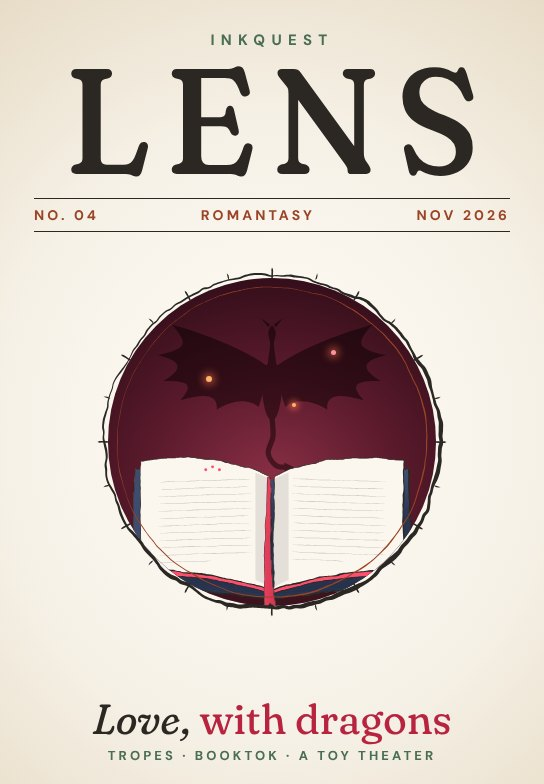
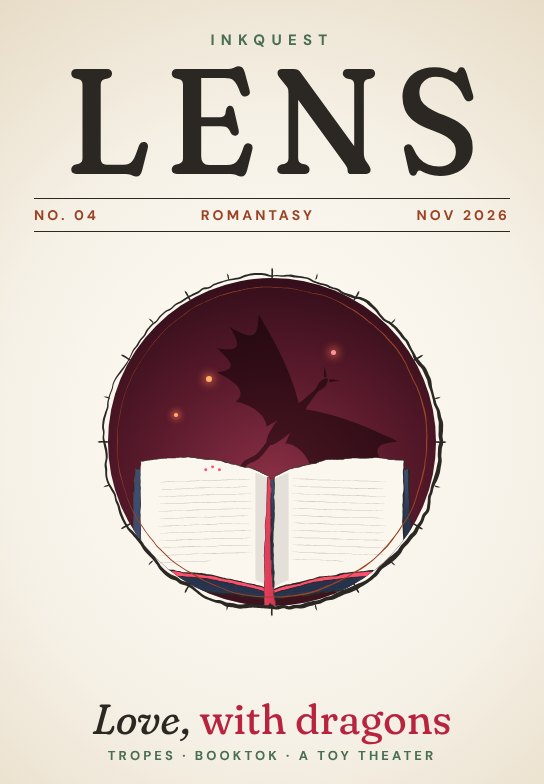
LENS No. 04: new cover frame (dragon on the diagonal)
Claude-Session: https://claude.ai/code/session_01DPTRyHWu8Jcacra3LsWqzT

Changed region(s): [[0.3125, 0.398, 0.7188, 0.6122], [0.3125, 0.5204, 0.3438, 0.551]]

diff --git a/issue-04/index.html b/issue-04/index.html
@@ -332,7 +332,7 @@ body::before{content:"";position:fixed;inset:0 0 auto;height:env(safe-area-inset
 /* cover: dark velvet in the lens, embers rising, a dragon's shadow passing over the book */
 .lens .glass.velvet{background:radial-gradient(80% 70% at 50% 62%,#8a2f45 0,#5a1a2c 48%,#2a0b16 100%)}
 .lens .glass.velvet::after{content:"";position:absolute;inset:0;background:repeating-linear-gradient(100deg,rgba(255,255,255,.035) 0 2px,transparent 2px 9px);pointer-events:none}
-.flyby{mix-blend-mode:multiply;opacity:.55;animation:flyby 10s linear infinite}
+.flyby{mix-blend-mode:multiply;opacity:.55;translate:5.1% 20%;rotate:42.4deg;scale:.938;animation:flyby 10s linear infinite}
 /* up to the right, bank, then away over the top left: 25 evenly spaced points on one Bézier curve, nose along the path */
 @keyframes flyby{0%{translate:-40.0% 60.0%;rotate:72.0deg;scale:0.850;opacity:0.000}4.17%{translate:-31.6% 55.4%;rotate:68.9deg;scale:0.862;opacity:0.229}8.33%{translate:-23.8% 50.4%;rotate:65.5deg;scale:0.875;opacity:0.458}12.5%{translate:-16.6% 44.9%;rotate:61.8deg;scale:0.887;opacity:0.550}16.67%{translate:-10.2% 39.1%;rotate:57.7deg;scale:0.900;opacity:0.550}20.83%{translate:-4.4% 33.0%;rotate:53.2deg;scale:0.912;opacity:0.550}25%{translate:0.7% 26.6%;rotate:48.1deg;scale:0.925;opacity:0.550}29.17%{translate:5.1% 20.0%;rotate:42.4deg;scale:0.938;opacity:0.550}33.33%{translate:8.7% 13.1%;rotate:35.9deg;scale:0.950;opacity:0.550}37.5%{translate:11.6% 6.1%;rotate:28.5deg;scale:0.962;opacity:0.550}41.67%{translate:13.7% -1.0%;rotate:20.4deg;scale:0.975;opacity:0.550}45.83%{translate:15.1% -8.3%;rotate:11.4deg;scale:0.987;opacity:0.550}50%{translate:15.6% -15.6%;rotate:1.9deg;scale:1.000;opacity:0.550}54.17%{translate:15.4% -23.0%;rotate:-7.8deg;scale:1.012;opacity:0.550}58.33%{translate:14.3% -30.3%;rotate:-17.4deg;scale:1.025;opacity:0.550}62.5%{translate:12.4% -37.6%;rotate:-26.3deg;scale:1.038;opacity:0.550}66.67%{translate:9.6% -44.8%;rotate:-34.5deg;scale:1.050;opacity:0.550}70.83%{translate:6.0% -51.9%;rotate:-41.8deg;scale:1.062;opacity:0.550}75%{translate:1.5% -58.8%;rotate:-48.2deg;scale:1.075;opacity:0.550}79.17%{translate:-3.9% -65.6%;rotate:-53.7deg;scale:1.087;opacity:0.550}83.33%{translate:-10.3% -72.1%;rotate:-58.6deg;scale:1.100;opacity:0.550}87.5%{translate:-17.5% -78.3%;rotate:-62.9deg;scale:1.113;opacity:0.458}91.67%{translate:-25.7% -84.2%;rotate:-66.7deg;scale:1.125;opacity:0.306}95.83%{translate:-34.9% -89.8%;rotate:-70.0deg;scale:1.137;opacity:0.153}100%{translate:-45.0% -95.0%;rotate:-73.0deg;scale:1.150;opacity:0.000}}
 .embers{position:absolute;inset:0;pointer-events:none}
